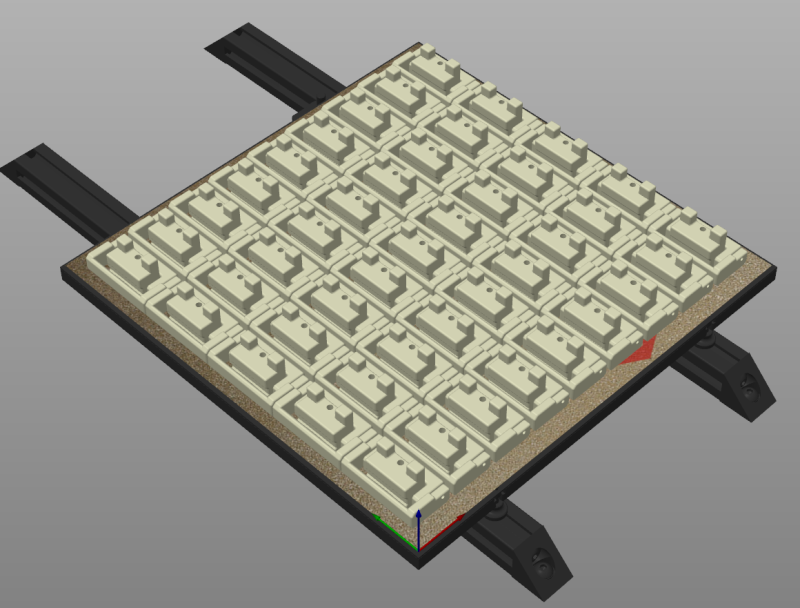
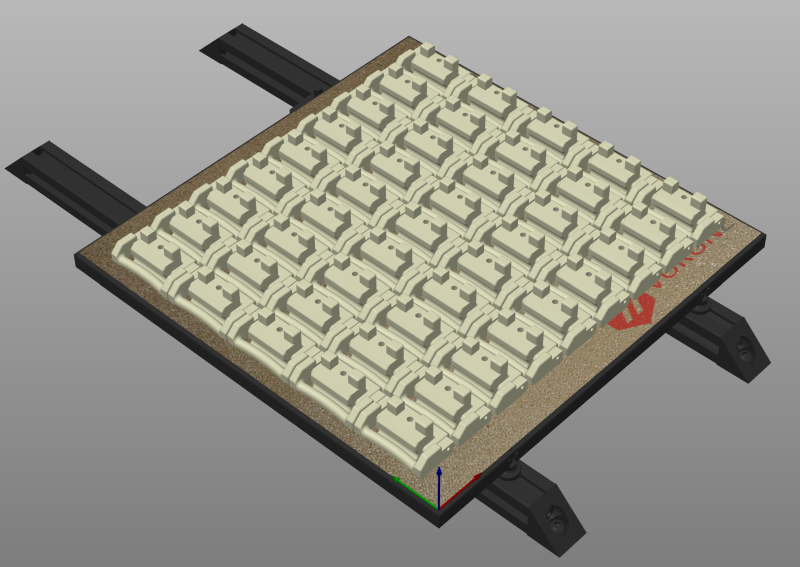
Updated images with RC design

diff --git a/voron-2.4/FilamentLatch/README.md b/voron-2.4/FilamentLatch/README.md
@@ -4,7 +4,7 @@ This is originally inspired by a youtube video - [https://www.youtube.com/watch?
 
 Another user is creating cad and variants - [https://github.com/v6cl/My-Voron2.4-Customs/tree/main/Panel_Locker](https://github.com/v6cl/My-Voron2.4-Customs/tree/main/Panel_Locker)
 
-![Latch](Images/Latch.png)
+![Latch](Images/Latch-v68-3mm.png)
 
 ## So why did you do it?
 
